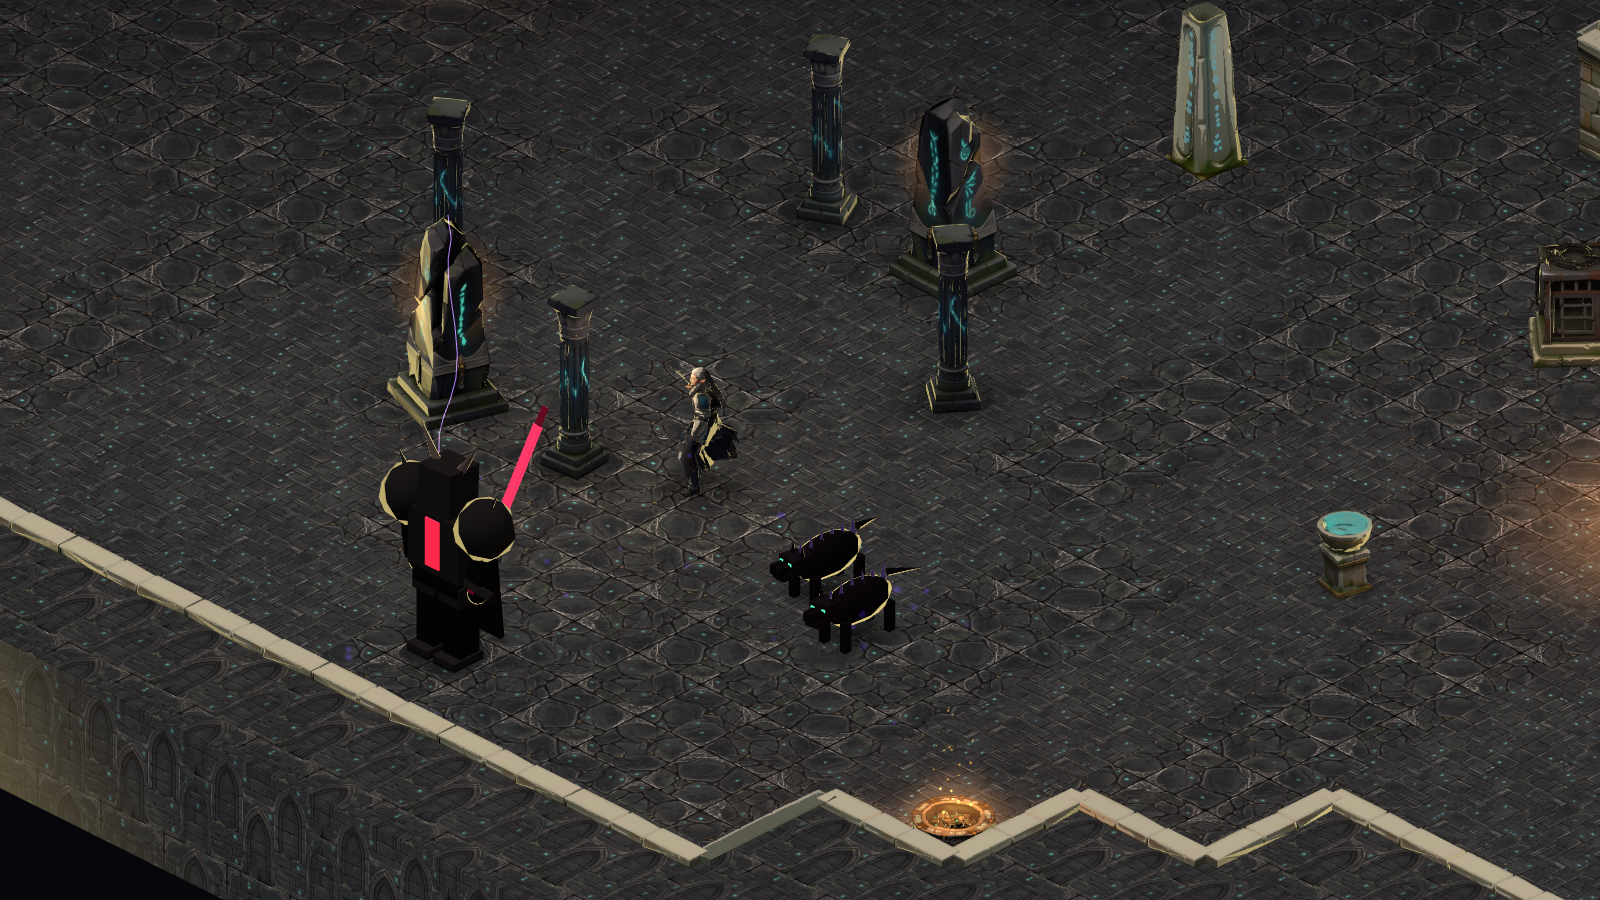
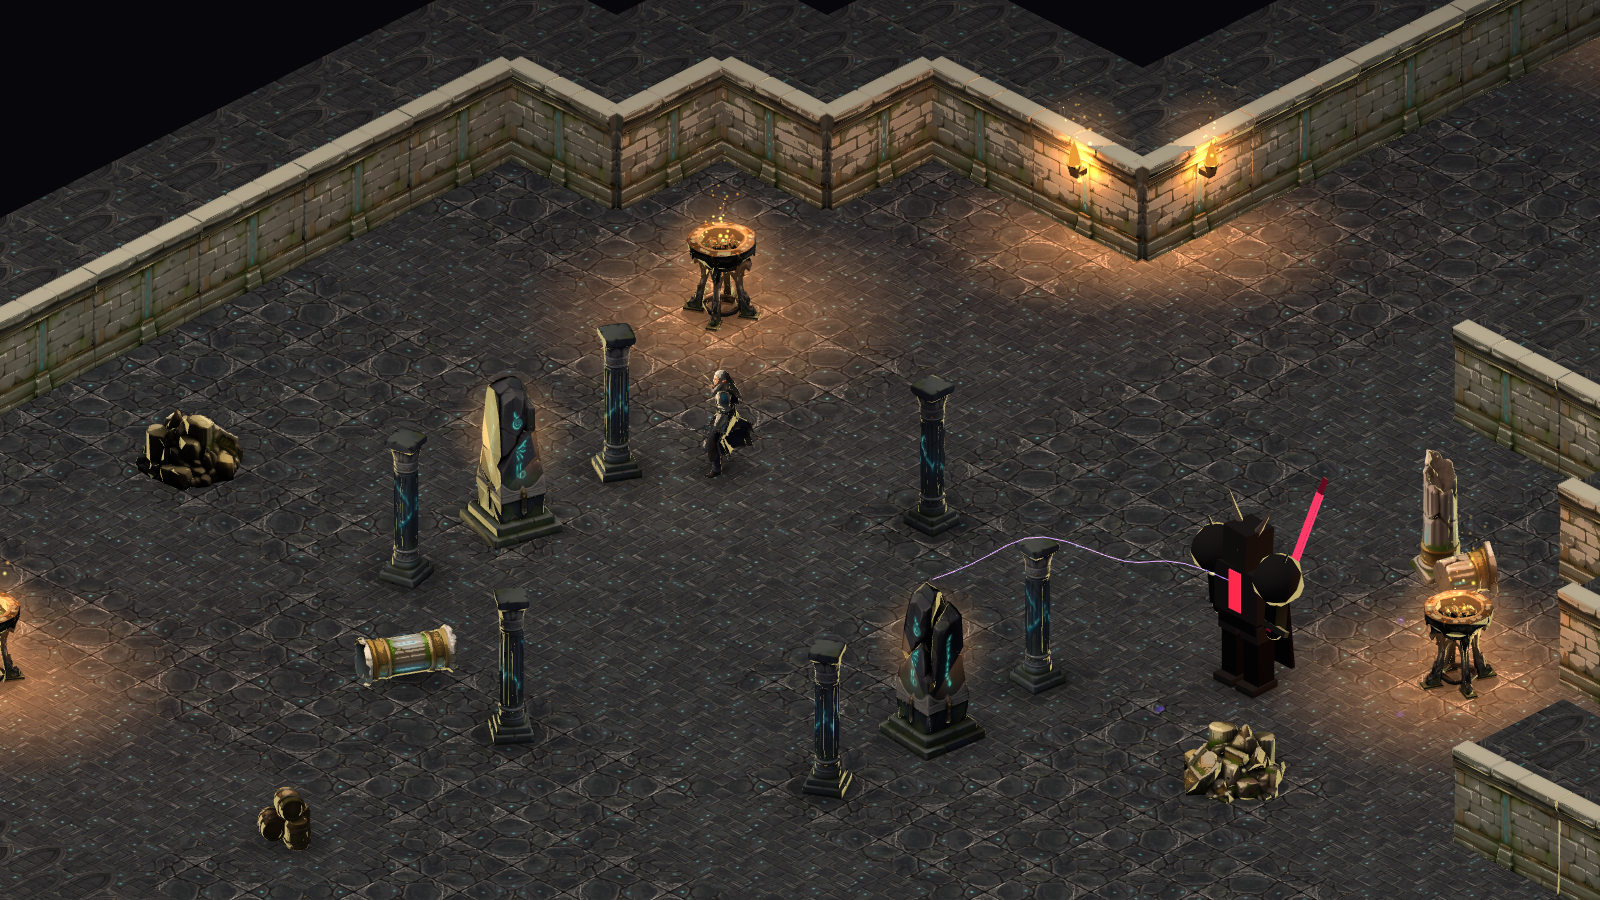
Cutaway walls and wall torches
Far (camera-facing) walls stay tall with painted facades; all other walls drop to a capped ledge so room interiors are visible. Slabs are only built for camera-facing faces (halves slab count). Wall torches with flame, floor pool and halo are added; the pooled point lights now serve braziers and torches.

Claude-Session: https://claude.ai/code/session_01AZqGtGy81B4DUW4Xvq9Knm

diff --git a/src/world/DungeonInstancer.ts b/src/world/DungeonInstancer.ts
@@ -1,4 +1,5 @@
 import * as THREE from 'three';
+import { mergeGeometries } from 'three/examples/jsm/utils/BufferGeometryUtils.js';
 import { assets } from '../assets/AssetRegistry';
 import type { EnvPropId } from '../assets/ProceduralAssetFallback';
 import { createToonMaterial, sharedUniforms } from '../shaders/ToonRealm';
@@ -6,7 +7,7 @@ import { GRID, TILE, TileType, tileToWorld, type Dungeon, type Room, type Vec2 }
 import { realm } from './RealmManager';
 import { BlobShadows, radialTexture } from './Shadows';
 
-const NUM_LIGHTS = 4;
+const NUM_LIGHTS = 5;
 const EMBERS_PER_SLOT = 36;
 
 export interface MonolithRef { pos: Vec2; room: Room; index: number; alive: boolean; hp: number; maxHp: number }
@@ -48,6 +49,10 @@ export class DungeonInstancer {
   private ghostMeshes: THREE.InstancedMesh[] = [];
   private decorShadows: Array<{ x: number; z: number; r: number }> = [];
   private slabAt = new THREE.Vector2(1e9, 1e9);
+  /** wall torches: x,z of the flame, wall-normal yaw */
+  private lightSrc: Array<{ x: number; y: number; z: number }> = [];
+  readonly torches: Array<{ x: number; z: number; yaw: number }> = [];
+  private flameMat!: THREE.MeshBasicMaterial;
 
   constructor(readonly dungeon: Dungeon) {
     const d = dungeon;
@@ -98,28 +103,47 @@ export class DungeonInstancer {
     };
     // walls: a solid core per tile, dressed with painted facade slabs on every face that borders open ground
     const facade = assets.hasEnv('wall_segment');
-    const wallGeo = own(new THREE.BoxGeometry(TILE, 2.4, TILE).translate(0, facade ? 0.5 : 0.8, 0));
-    const wallMap = tex('wall');
-    const wallMat = own(lit(createToonMaterial({ color: 0xffffff, map: wallMap, rim: 0.7, band: 0.2 }), wallMap, 0.5));
-    const walls = add(new THREE.InstancedMesh(wallGeo, wallMat, wallTiles.length));
-    wallTiles.forEach((idx, n) => {
-      const x = idx % GRID, y = (idx / GRID) | 0, h = hash(y, x);
-      put(walls, n, tileToWorld(x), 0, tileToWorld(y));
-      walls.setColorAt(n, c.setScalar(0.78 + h * 0.18));
-    });
     const walkable = (x: number, y: number) => {
       if (x < 0 || y < 0 || x >= GRID || y >= GRID) return false;
       const t = d.grid[y * GRID + x];
       return t === TileType.FLOOR || t === TileType.PORTAL || t === TileType.SPECTRAL_BRIDGE;
     };
+    // Cutaway: the camera looks toward -x,-z, so walls with open floor on their +x/+z side (the far walls) stay tall and
+    // show their painted faces; every other wall is cut down to a capped ledge so the room interior is visible.
+    const isTall = (x: number, y: number) => walkable(x + 1, y) || walkable(x, y + 1) || walkable(x + 1, y + 1);
+    const tallTiles = wallTiles.filter((i) => isTall(i % GRID, (i / GRID) | 0));
+    const lowTiles = wallTiles.filter((i) => !isTall(i % GRID, (i / GRID) | 0));
+    const wallGeo = own(new THREE.BoxGeometry(TILE, 2.4, TILE).translate(0, facade ? 0.5 : 0.8, 0));
+    const ledgeGeo = own(mergeGeometries([
+      new THREE.BoxGeometry(TILE, 1.0, TILE).translate(0, 0.0, 0),
+      new THREE.BoxGeometry(TILE + 0.1, 0.16, TILE + 0.1).translate(0, 0.58, 0),
+    ])!);
+    const wallMap = tex('wall');
+    const wallMat = own(lit(createToonMaterial({ color: 0xffffff, map: wallMap, rim: 0.7, band: 0.2 }), wallMap, 0.5));
+    const walls = add(new THREE.InstancedMesh(wallGeo, wallMat, tallTiles.length));
+    tallTiles.forEach((idx, n) => {
+      const x = idx % GRID, y = (idx / GRID) | 0, h = hash(y, x);
+      put(walls, n, tileToWorld(x), 0, tileToWorld(y));
+      walls.setColorAt(n, c.setScalar(0.78 + h * 0.18));
+    });
+    if (lowTiles.length) {
+      const ledge = add(new THREE.InstancedMesh(ledgeGeo, wallMat, lowTiles.length));
+      lowTiles.forEach((idx, n) => {
+        const x = idx % GRID, y = (idx / GRID) | 0, h = hash(y, x);
+        put(ledge, n, tileToWorld(x), 0, tileToWorld(y));
+        ledge.setColorAt(n, c.setScalar(0.95 + h * 0.2));
+      });
+    }
     const faces: Array<{ x: number; z: number; yaw: number; alcove: boolean; h: number }> = [];
     const slabOut = TILE / 2 + 0.2 - 0.225; // the brick plane sits ~0.2 behind the slab's outer edge, so push the slab out until it clears the core box
-    for (const idx of facade ? wallTiles : []) {
+    for (const idx of facade ? tallTiles : []) {
       const x = idx % GRID, y = (idx / GRID) | 0;
-      for (const [dx, dz] of [[1, 0], [-1, 0], [0, 1], [0, -1]]) {
+      for (const [dx, dz] of [[1, 0], [0, 1]]) { // only the camera-facing (room-interior) faces are ever seen
         if (!walkable(x + dx, y + dz)) continue;
         const h = hash(x * 3 + dx * 7, y * 5 + dz * 11);
-        faces.push({ x: tileToWorld(x) + dx * slabOut, z: tileToWorld(y) + dz * slabOut, yaw: Math.atan2(dx, dz), alcove: h < 0.12 && assets.hasEnv('wall_alcove'), h });
+        const alcove = h < 0.12 && assets.hasEnv('wall_alcove');
+        faces.push({ x: tileToWorld(x) + dx * slabOut, z: tileToWorld(y) + dz * slabOut, yaw: Math.atan2(dx, dz), alcove, h });
+        if (!alcove && h > 0.12 && h < 0.3 && (x + y) % 2 === 0) this.torches.push({ x: tileToWorld(x) + dx * (TILE / 2 + 0.3), z: tileToWorld(y) + dz * (TILE / 2 + 0.3), yaw: Math.atan2(dx, dz) });
       }
     }
     // Only slabs near the player are drawn (re-selected a few times a second): bounds the triangle load on phones.
@@ -199,12 +223,27 @@ export class DungeonInstancer {
     monos.forEach(({ p }) => sh.add(p.x, p.z, 1.2));
     this.decorShadows.forEach((q) => sh.add(q.x, q.z, q.r * 1.5));
     sh.end(); this.group.add(sh.mesh); this.drawCalls++; own(sh);
+    // wall torches: iron bracket + cup, and an emissive flame that follows the realm colour
+    if (this.torches.length) {
+      const nT = this.torches.length;
+      const bracket = own(mergeGeometries([
+        new THREE.BoxGeometry(0.1, 0.1, 0.34).translate(0, 1.3, -0.1),
+        new THREE.CylinderGeometry(0.13, 0.08, 0.2, 8).translate(0, 1.42, 0.08),
+      ])!);
+      const bm2 = add(new THREE.InstancedMesh(bracket, own(createToonMaterial({ color: 0x2a2622, rim: 0.4, emissive: 0x000000 })), nT));
+      const flameGeo = own(new THREE.ConeGeometry(0.13, 0.42, 7).translate(0, 1.76, 0.08));
+      this.flameMat = own(new THREE.MeshBasicMaterial({ color: 0xffa83a }));
+      const fm = add(new THREE.InstancedMesh(flameGeo, this.flameMat, nT));
+      this.torches.forEach((t, i) => { put(bm2, i, t.x, 0, t.z, t.yaw); put(fm, i, t.x, 0, t.z, t.yaw); });
+    }
+    this.lightSrc = [...this.braziers.map((p) => ({ x: p.x, y: 1.7, z: p.z })), ...this.torches.map((t) => ({ x: t.x, y: 1.55, z: t.z }))];
     this.poolMat = own(new THREE.MeshBasicMaterial({ map: radialTexture(), color: 0xffa050, transparent: true, opacity: 0.5, blending: THREE.AdditiveBlending, depthWrite: false }));
-    this.pools = add(new THREE.InstancedMesh(own(new THREE.PlaneGeometry(2, 2)), this.poolMat, Math.max(1, this.braziers.length)));
-    this.pools.count = this.braziers.length; this.pools.renderOrder = 1;
-    this.braziers.forEach((p, i) => this.pools.setMatrixAt(i, _m.compose(_p.set(p.x, 0.035, p.z), new THREE.Quaternion().setFromEuler(new THREE.Euler(-Math.PI / 2, 0, 0)), _s.set(3.4, 3.4, 3.4))));
+    this.pools = add(new THREE.InstancedMesh(own(new THREE.PlaneGeometry(2, 2)), this.poolMat, Math.max(1, this.lightSrc.length)));
+    this.pools.count = this.lightSrc.length; this.pools.renderOrder = 1;
+    this.lightSrc.forEach((p, i) => this.pools.setMatrixAt(i, _m.compose(_p.set(p.x, 0.035, p.z), new THREE.Quaternion().setFromEuler(new THREE.Euler(-Math.PI / 2, 0, 0)), _s.set(i < this.braziers.length ? 3.4 : 2.6, i < this.braziers.length ? 3.4 : 2.6, 3))));
     const hp: number[] = [];
     this.braziers.forEach((p) => hp.push(p.x, 1.35, p.z));
+    this.torches.forEach((t) => hp.push(t.x, 1.8, t.z));
     monos.forEach(({ p }) => hp.push(p.x, 1.8, p.z));
     const hg = own(new THREE.BufferGeometry()); hg.setAttribute('position', new THREE.Float32BufferAttribute(hp, 3));
     this.haloMat = own(new THREE.PointsMaterial({ map: radialTexture(), color: 0xffa050, size: 120, sizeAttenuation: false, transparent: true, opacity: 0.55, blending: THREE.AdditiveBlending, depthWrite: false }));
@@ -302,12 +341,12 @@ export class DungeonInstancer {
     this.lightTimer -= dt;
     if (this.lightTimer <= 0) {
       this.lightTimer = 0.25;
-      const near = this.braziers
+      const near = this.lightSrc
         .map((p) => ({ p, d: (p.x - player.x) ** 2 + (p.z - player.z) ** 2 }))
         .sort((a, c) => a.d - c.d).slice(0, NUM_LIGHTS);
       for (let i = 0; i < NUM_LIGHTS; i++) {
         const n = near[i];
-        if (n && n.d < 26 * 26) { this.lights[i].position.set(n.p.x, 1.7, n.p.z); this.lights[i].userData.on = 1; this.emberCenters[i].set(n.p.x, 0, n.p.z); }
+        if (n && n.d < 26 * 26) { this.lights[i].position.set(n.p.x, n.p.y, n.p.z); this.lights[i].userData.on = 1; this.emberCenters[i].set(n.p.x, n.p.y - 1.7, n.p.z); }
         else { this.lights[i].userData.on = 0; this.emberCenters[i].set(0, -50, 0); }
       }
     }
@@ -317,6 +356,7 @@ export class DungeonInstancer {
       this.poolMat.color.setHex(0xffa050).lerp(new THREE.Color(0x3fffd0), b); this.poolMat.opacity = 0.5 * fl;
       this.haloMat.color.setHex(0xffa050).lerp(new THREE.Color(0x7affd0), b); this.haloMat.opacity = 0.5 * fl; this.haloMat.size = this.haloBase * (0.95 + 0.1 * fl);
     }
+    if (this.flameMat) this.flameMat.color.setHex(0xffa83a).lerp(new THREE.Color(0x7affd0), b);
     const warm = new THREE.Color(0xff9a45), cold = new THREE.Color(0x4fffd0);
     for (let i = 0; i < NUM_LIGHTS; i++) {
       const l = this.lights[i];
